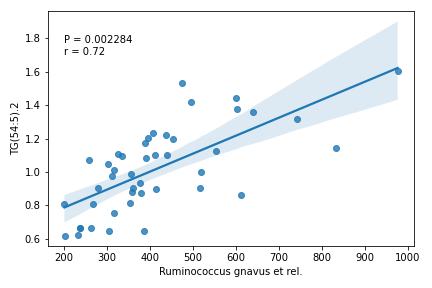
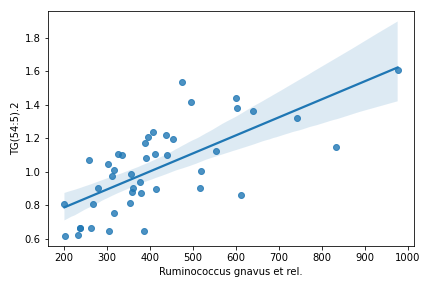
Update docs

diff --git a/dokdo/api/cross_association.py b/dokdo/api/cross_association.py
@@ -52,31 +52,39 @@ def cross_association_table(
     pandas.DataFrame
         Cross-association table.
 
+    See Also
+    --------
+    dokdo.api.cross_association.cross_association_heatmap
+    dokdo.api.cross_association.cross_association_regplot
+
     Examples
     --------
 
     Below example is taken from a `tutorial <https://microbiome.github.io/
     tutorials/Heatmap.html>`__ by Leo Lahti and Sudarshan Shetty et al.
 
-    >>> import pandas as pd
-    >>> import dokdo
-    >>> otu = pd.read_csv('/Users/sbslee/Desktop/dokdo/data/miscellaneous/otu.csv', index_col=0)
-    >>> lipids = pd.read_csv('/Users/sbslee/Desktop/dokdo/data/miscellaneous/lipids.csv', index_col=0)
-    >>> df = dokdo.cross_association_table(
-    ...     otu, lipids, normalize='log10', nsig=1
-    ... )
-    >>> df.head(10)
-                                 taxon      target      corr          pval      adjp
-    0      Ruminococcus gnavus et rel.  TG(54:5).2  0.716496  4.516954e-08  0.002284
-    1         Uncultured Bacteroidetes  TG(56:2).1 -0.698738  1.330755e-07  0.002345
-    2                    Moraxellaceae   PC(40:3e) -0.694186  1.733720e-07  0.002345
-    3      Ruminococcus gnavus et rel.    TG(50:4)  0.691191  2.058030e-07  0.002345
-    4  Lactobacillus plantarum et rel.    PC(40:3) -0.687798  2.493210e-07  0.002345
-    5      Ruminococcus gnavus et rel.  TG(54:6).1  0.683580  3.153275e-07  0.002345
-    6      Ruminococcus gnavus et rel.  TG(54:4).2  0.682030  3.434292e-07  0.002345
-    7      Ruminococcus gnavus et rel.    TG(52:5)  0.680622  3.709485e-07  0.002345
-    8                     Helicobacter    PC(40:3) -0.673201  5.530595e-07  0.003108
-    9                    Moraxellaceae  PC(38:4).1 -0.670050  6.530463e-07  0.003302
+    .. code:: python3
+
+        import pandas as pd
+        import dokdo
+        otu = pd.read_csv('/Users/sbslee/Desktop/dokdo/data/miscellaneous/otu.csv', index_col=0)
+        lipids = pd.read_csv('/Users/sbslee/Desktop/dokdo/data/miscellaneous/lipids.csv', index_col=0)
+        df = dokdo.cross_association_table(
+            otu, lipids, normalize='log10', nsig=1
+        )
+        df.head(10)
+        # Will print:
+        #                              taxon      target      corr          pval      adjp
+        # 0      Ruminococcus gnavus et rel.  TG(54:5).2  0.716496  4.516954e-08  0.002284
+        # 1         Uncultured Bacteroidetes  TG(56:2).1 -0.698738  1.330755e-07  0.002345
+        # 2                    Moraxellaceae   PC(40:3e) -0.694186  1.733720e-07  0.002345
+        # 3      Ruminococcus gnavus et rel.    TG(50:4)  0.691191  2.058030e-07  0.002345
+        # 4  Lactobacillus plantarum et rel.    PC(40:3) -0.687798  2.493210e-07  0.002345
+        # 5      Ruminococcus gnavus et rel.  TG(54:6).1  0.683580  3.153275e-07  0.002345
+        # 6      Ruminococcus gnavus et rel.  TG(54:4).2  0.682030  3.434292e-07  0.002345
+        # 7      Ruminococcus gnavus et rel.    TG(52:5)  0.680622  3.709485e-07  0.002345
+        # 8                     Helicobacter    PC(40:3) -0.673201  5.530595e-07  0.003108
+        # 9                    Moraxellaceae  PC(38:4).1 -0.670050  6.530463e-07  0.003302
     """
     if isinstance(artifact, Artifact):
         feats = artifact.view(pd.DataFrame)
@@ -190,21 +198,31 @@ def cross_association_heatmap(
     seaborn.matrix.ClusterGrid
         A ClusterGrid instance.
 
+    See Also
+    --------
+    dokdo.api.cross_association.cross_association_table
+    dokdo.api.cross_association.cross_association_regplot
+
     Examples
     --------
 
     Below example is taken from a `tutorial <https://microbiome.github.io/
     tutorials/Heatmap.html>`__ by Leo Lahti and Sudarshan Shetty et al.
 
-    >>> import pandas as pd
-    >>> import dokdo
-    >>> otu = pd.read_csv('/Users/sbslee/Desktop/dokdo/data/miscellaneous/otu.csv', index_col=0)
-    >>> lipids = pd.read_csv('/Users/sbslee/Desktop/dokdo/data/miscellaneous/lipids.csv', index_col=0)
-    >>> dokdo.cross_association_heatmap(
-    ...    otu, lipids, normalize='log10', nsig=1,
-    ...    figsize=(15, 15), cmap='vlag', marksig=True,
-    ...    annot_kws={'fontsize': 6, 'ha': 'center', 'va': 'center'}
-    ... )
+    .. code:: python3
+
+        import dokdo
+        import matplotlib.pyplot as plt
+        %matplotlib inline
+        import pandas as pd
+
+        otu = pd.read_csv('/Users/sbslee/Desktop/dokdo/data/miscellaneous/otu.csv', index_col=0)
+        lipids = pd.read_csv('/Users/sbslee/Desktop/dokdo/data/miscellaneous/lipids.csv', index_col=0)
+        dokdo.cross_association_heatmap(
+           otu, lipids, normalize='log10', nsig=1,
+           figsize=(15, 15), cmap='vlag', marksig=True,
+           annot_kws={'fontsize': 6, 'ha': 'center', 'va': 'center'}
+        )
 
     .. image:: images/cross_association_heatmap_1.png
     """
@@ -268,6 +286,28 @@ def cross_association_regplot(
     -------
     matplotlib.axes.Axes
         Axes object with the plot drawn onto it.
+
+    See Also
+    --------
+    dokdo.api.cross_association.cross_association_table
+    dokdo.api.cross_association.cross_association_heatmap
+
+    Examples
+    --------
+
+    .. code:: python3
+
+        import dokdo
+        import matplotlib.pyplot as plt
+        %matplotlib inline
+        import pandas as pd
+
+        otu = pd.read_csv('/Users/sbslee/Desktop/dokdo/data/miscellaneous/otu.csv', index_col=0)
+        lipids = pd.read_csv('/Users/sbslee/Desktop/dokdo/data/miscellaneous/lipids.csv', index_col=0)
+        dokdo.cross_association_regplot(otu, lipids, 'Ruminococcus gnavus et rel.', 'TG(54:5).2')
+        plt.tight_layout()
+
+    .. image:: images/cross_association_regplot.png
     """
     df = pd.concat([artifact[taxon], target[name]], axis=1)
 

diff --git a/CHANGELOG.rst b/CHANGELOG.rst
@@ -1,8 +1,8 @@
 Changelog
 *********
 
-1.13.0 (in development)
------------------------
+1.13.0 (2022-04-02)
+-------------------
 
 * :issue:`37`: Add new methods :meth:`cross_association_table`, :meth:`cross_association_heatmap`, and :meth:`cross_association_regplot`.
 

diff --git a/docs/dokdo_api.rst b/docs/dokdo_api.rst
@@ -493,6 +493,13 @@ cross_association_heatmap
 
 .. autofunction:: cross_association_heatmap
 
+cross_association_regplot
+-------------------------
+
+.. currentmodule:: dokdo.api.cross_association
+
+.. autofunction:: cross_association_regplot
+
 regplot
 -------
 
